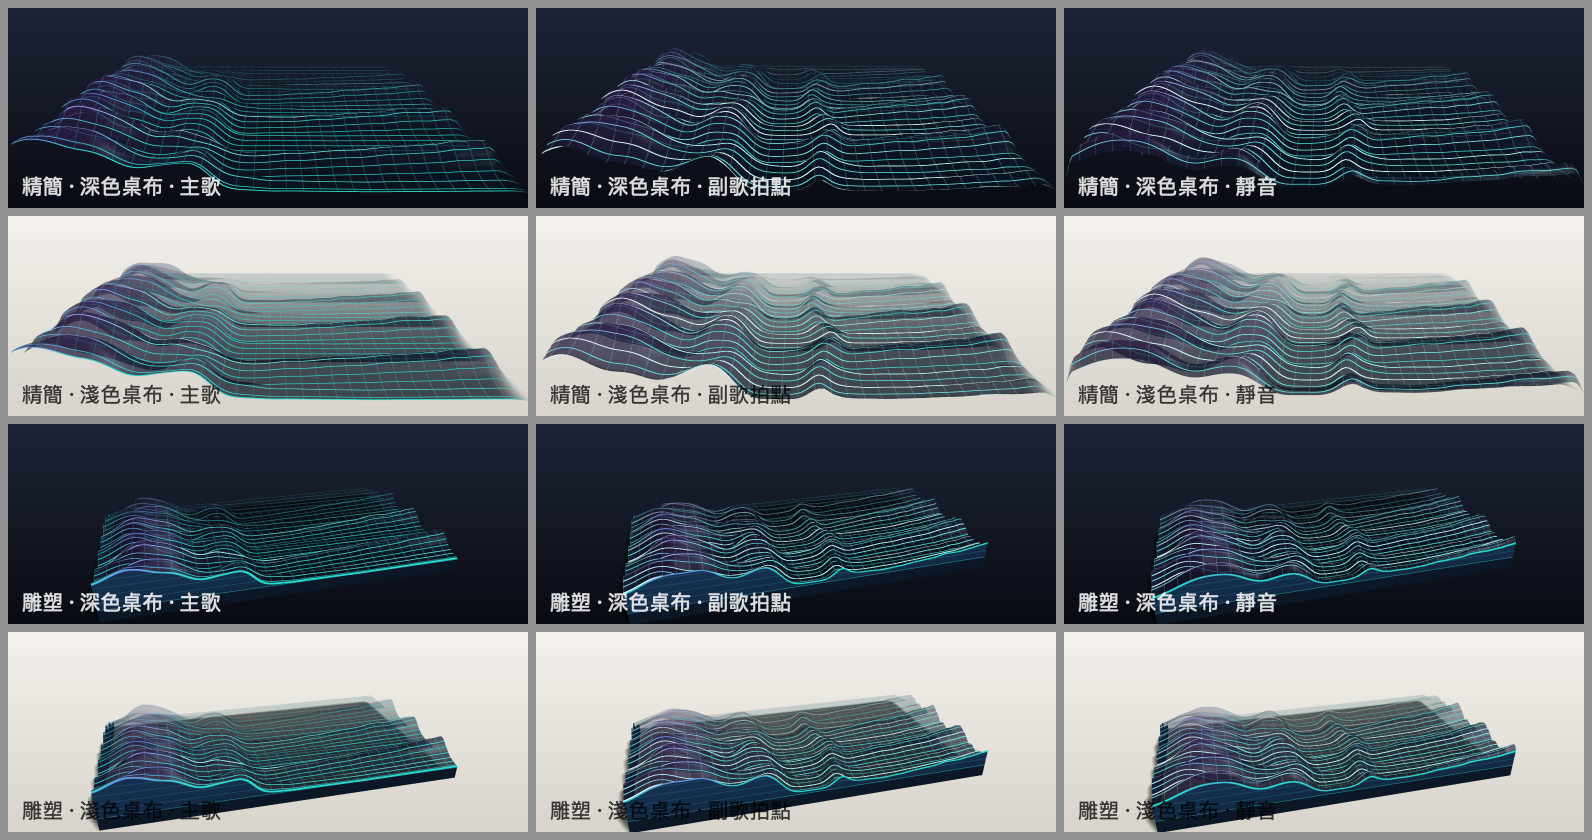
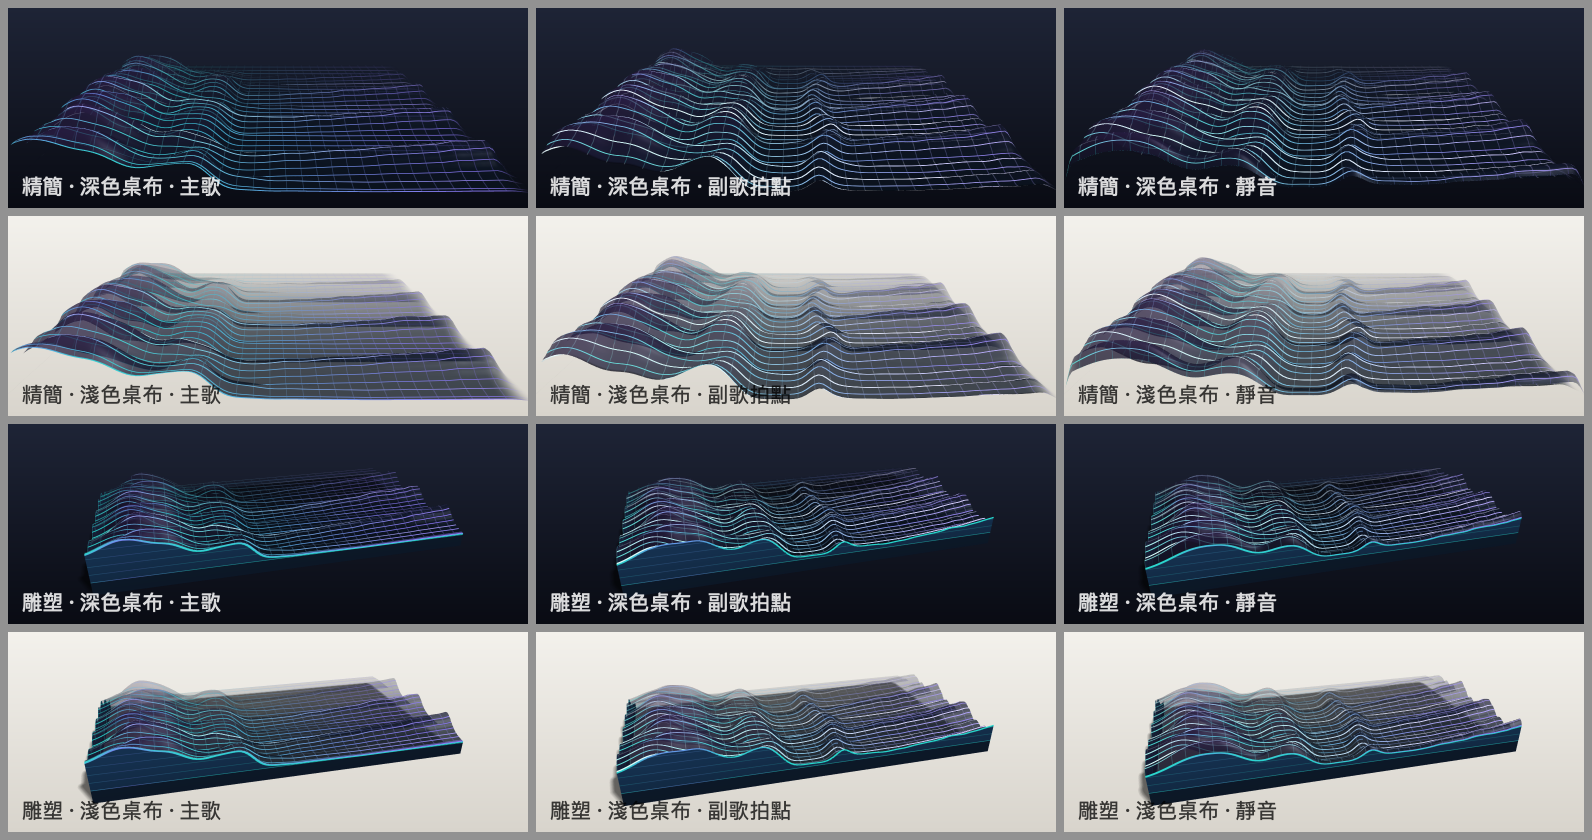
T06 terrain: review fixes (sculpture framing, dark-style line ramp)
- Sculpture camera target lowered to y = -0.25: the diorama was sitting low
  in the 2.6:1 frame (content rows 125-399 of 400) and the slab's front-left
  corner was clipped by the bottom edge, worse at the +6 deg sway. It is now
  vertically centred (rows ~85-348) with the contact shadow in frame.
- Dark family (aurora / neon / palette) grid lines now ramp along the
  frequency axis from the low to the high glow colour (graphite stays mono).
  Lines were coloured by height only, so almost every line used the low
  glow colour and aurora and neon looked like the same cyan wireframe.
- Regenerated docs/design/3d/terrain/*.png and updated terrain.md.

scripts/test.sh: Core 145/145, Scene 16/16. scripts/build.sh: 0 warnings.
Perf (Release, shots --perf): CPU median <= 0.04 ms, GPU median <= 0.21 ms.

diff --git a/PulseFloatScene/Themes/TerrainTheme.swift b/PulseFloatScene/Themes/TerrainTheme.swift
@@ -45,7 +45,8 @@ struct TerrainLayout: Equatable {
     /// 精簡：低角度沿時間軸看過去，地形填滿寬扁的浮動條。
     static let compactPose = CameraPose(target: SIMD3(0, -0.36, -0.1), distance: 4.0, elevation: 23, azimuth: 0, fov: 30)
     /// 雕塑：約 30° 俯角的立體模型（diorama），看得到正面與低頻側的切面。
-    static let sculpturePose = CameraPose(target: SIMD3(0, -0.02, 0), distance: 3.9, elevation: 27, azimuth: -10, fov: 26)
+    /// target 壓低到台座中段，模型在畫面裡垂直置中：擺動到 ±6° 時台座的前角也不會被畫面下緣切掉。
+    static let sculpturePose = CameraPose(target: SIMD3(0, -0.25, 0), distance: 3.9, elevation: 27, azimuth: -10, fov: 26)
 
     /// 地形基準面（高度 0）在世界座標的 y。
     var groundY: Float { sculpture ? -0.12 : -0.3 }
@@ -180,6 +181,7 @@ final class TerrainTheme: SceneTheme {
         Self.set(material, "u_fillHot", palette.fillHot)
         Self.set(material, "u_lineCol", palette.line)
         Self.set(material, "u_lineHot", palette.lineHot)
+        Self.set(material, "u_lineFreq", palette.lineTreble)
         Self.set(material, "u_beatCol", palette.beat)
         Self.set(material, "u_keyLight", key)
         Self.set(material, "u_fillLight", fill)

diff --git a/PulseFloatScene/Themes/Terrain/TerrainPalette.swift b/PulseFloatScene/Themes/Terrain/TerrainPalette.swift
@@ -13,6 +13,8 @@ struct TerrainPalette {
     var fillHot = SIMD4<Float>(0, 0, 0, 0)
     var line = SIMD4<Float>(1, 1, 1, 1)
     var lineHot = SIMD4<Float>(1, 1, 1, 0.4)
+    /// 高頻端的線色（rgb）與沿頻率軸混入的比例（a）；0 = 線色不隨頻率變。
+    var lineTreble = SIMD4<Float>(1, 1, 1, 0)
     var beat = SIMD4<Float>(1, 1, 1, 1)
     /// (ambient, key, fill, specular)
     var lighting = SIMD4<Float>(0.4, 0.6, 0.15, 0.3)
@@ -77,6 +79,9 @@ struct TerrainPalette {
             }
             p.line = v4(glowLow, 1)
             p.lineHot = v4(glowHigh, 0.3)
+            // 線色沿頻率軸（低 → 高）走風格的光色漸層：極光 青綠 → 紫、霓虹 青 → 洋紅，
+            // 否則兩者的線幾乎都是同一種青色（峰頂色只出現在少數高峰）。石墨保持單色線。
+            p.lineTreble = v4(glowHigh, solid ? 0 : 0.85)
             p.beat = v4(colors.pulse, isSurface ? 0.45 : 1)
             p.lighting = SIMD4(0.4, 0.66, 0.18, isSurface ? 0.32 : 0.2)
             p.shininess = isSurface ? 90 : 40

diff --git a/PulseFloatScene/Themes/Terrain/TerrainShaders.swift b/PulseFloatScene/Themes/Terrain/TerrainShaders.swift
@@ -91,6 +91,7 @@ enum TerrainShaders {
     float4 u_fillHot;
     float4 u_lineCol;
     float4 u_lineHot;
+    float4 u_lineFreq;
     float4 u_beatCol;
     float4 u_keyLight;
     float4 u_fillLight;
@@ -147,7 +148,8 @@ enum TerrainShaders {
         float fh = max(fwidth(hc), 1e-5);
         contour = saturate(1.0 - abs(fract(hc + 0.5) - 0.5) / fh) * (1.0 - smoothstep(0.2, 0.5, fh)) * smoothstep(0.01, 0.05, hn);
     }
-    float3 lc = mix(u_lineCol.rgb, u_lineHot.rgb, smoothstep(0.5, 1.0, hn));
+    float3 lc = mix(u_lineCol.rgb, u_lineFreq.rgb, u_lineFreq.a * smoothstep(0.05, 0.95, in.tv.x));
+    lc = mix(lc, u_lineHot.rgb, smoothstep(0.5, 1.0, hn));
     lc = mix(lc, u_beatCol.rgb, beat * (1.0 - u_mode.y));
     float la = max(max(rowLine * u_mode.w * (1.0 + beat * (1.0 - u_mode.y)), colLine * u_lineHot.a), max(front, contour * u_mode.z));
     la = saturate(la) * u_lineCol.a * fog;
